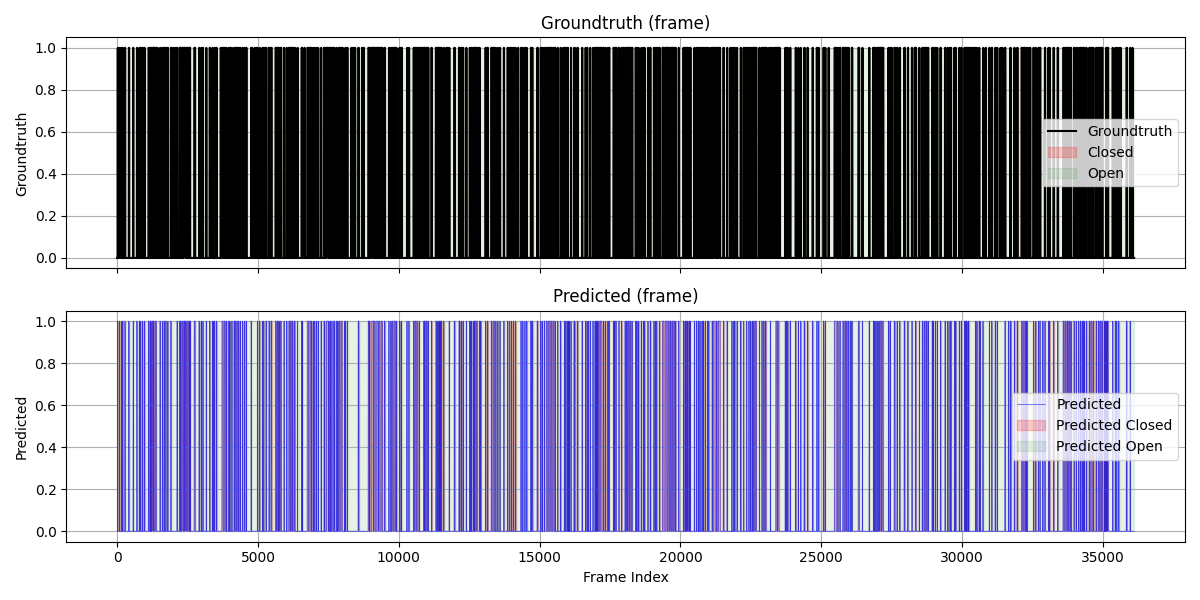
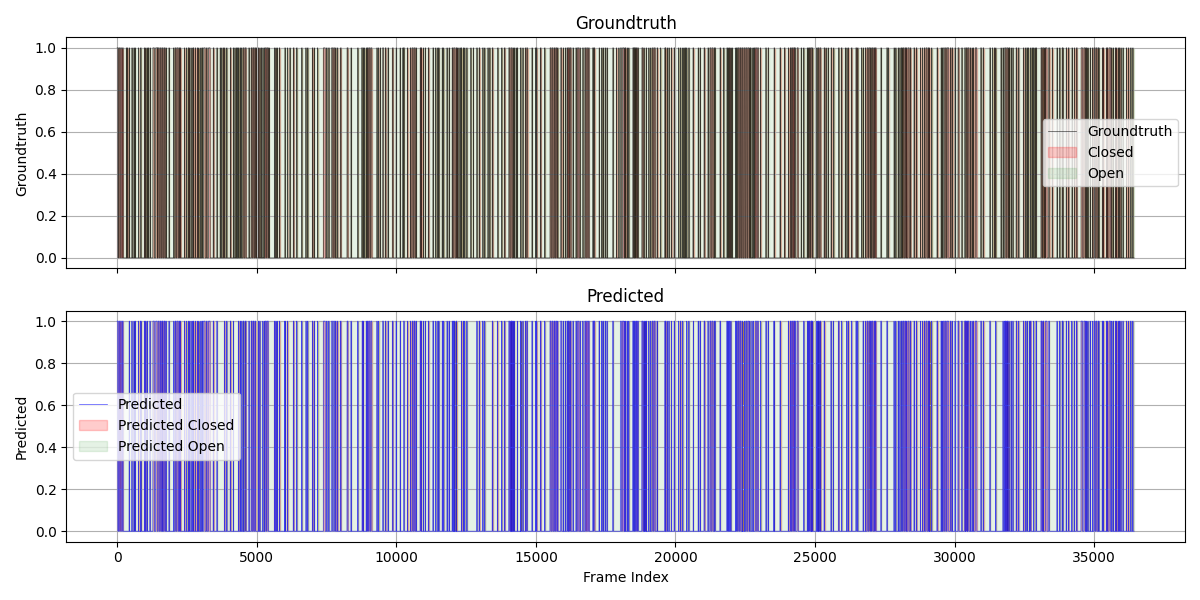
update test dataset

diff --git a/training/evaluate.py b/training/evaluate.py
@@ -157,15 +157,15 @@ def evaluate_model(checkpoint_path):
     model.eval()
 
     # 2. Validation dataset
-    val_dataset = ThermalBlinkDataset(
+    test_dataset = ThermalBlinkDataset(
         pkl_root=PKL_ROOT,
         csv_root=CSV_ROOT,
         subfolders=SUBFOLDERS,
-        split="val",  # Specify validation split
+        split="test",  # Specify test split
         center_size=CENTER_SIZE,
     )
-    val_loader = DataLoader(
-        val_dataset,
+    test_loader = DataLoader(
+        test_dataset,
         batch_size=1,              # Load one sequence at a time
         shuffle=False,
         num_workers=0             # Single-threaded evaluation
@@ -173,13 +173,11 @@ def evaluate_model(checkpoint_path):
 
     all_preds = []
     all_labels = []
-
-    for batch in val_loader:
+    for batch in test_loader:
         x = batch["x"].to(DEVICE)  # Ensure data is on the correct device
         y = batch["y"].to(DEVICE)
         with torch.no_grad():
             logits = model(x)  # [B, 1] or [B]
-            # probs = torch.sigmoid(logits).squeeze(-1).cpu().numpy()  # [B]
             probs = torch.sigmoid(logits).squeeze().cpu().numpy()
             if probs.ndim == 0:
                 probs = np.expand_dims(probs, axis=0)  # 转换成 shape=(1,)
@@ -189,12 +187,11 @@ def evaluate_model(checkpoint_path):
 
     all_preds = np.array(all_preds)
     all_labels = np.array(all_labels)
-
     all_preds_smoothed, bin_preds = postprocess_predictions(
-        all_preds, threshold=0.42, kernel_size=7, min_valid_len=1
+        all_preds, threshold=0.40, kernel_size=7, min_valid_len=1
     )
 
-    # Ground truth 标签二值化
+    # Ground truth binary labels
     bin_labels = (all_labels >= 0.45).astype(int)
 
 
@@ -273,7 +270,7 @@ def evaluate_model(checkpoint_path):
                      where=all_labels <= 0.5,
                      color='green', alpha=0.1, label='Open')
     ax1.set_ylabel("Groundtruth")
-    ax1.set_title("Groundtruth (window)" if WINDOW_MODE else "Groundtruth (frame)")
+    ax1.set_title("Groundtruth (window)" if WINDOW_MODE else "Groundtruth")
     ax1.legend()
     ax1.grid(True)
     
@@ -287,7 +284,7 @@ def evaluate_model(checkpoint_path):
                      color='green', alpha=0.1, label='Predicted Open')
     ax2.set_xlabel("Window Index" if WINDOW_MODE else "Frame Index")
     ax2.set_ylabel("Predicted")
-    ax2.set_title("Predicted (window)" if WINDOW_MODE else "Predicted (frame)")
+    ax2.set_title("Predicted (window)" if WINDOW_MODE else "Predicted")
     ax2.legend()
     ax2.grid(True)
     

diff --git a/training/main.py b/training/main.py
@@ -8,38 +8,46 @@ from evaluate import evaluate_model
 from model import BlinkClassifier
 from trainer import build_trainer, build_dataloaders
 from utils import set_random_seeds
-
+from pytorch_lightning.callbacks import EarlyStopping
 
 def main():
     set_random_seeds()
 
-    # ====================== [DEBUG] Dataset Validation ======================
     print("🛠 Loading training data...")
     dataset = ThermalBlinkDataset(
         pkl_root=PKL_ROOT,
         csv_root=CSV_ROOT,
         subfolders=SUBFOLDERS,
-        split="train",  # Specify training split
+        split="train",
         center_size=CENTER_SIZE,
     )
     print(f"✅ Dataset loaded successfully, total {len(dataset)} frames")
 
-    # ====================== [Training Section] ======================
     print("\n🚀 Initializing model: ", MODEL_NAME)
     model = BlinkClassifier()
+
+    # Build dataloaders
     train_loader, val_loader, train_dataset = build_dataloaders()
+
+    # Configure early stopping
+    early_stopping = EarlyStopping(
+        monitor="val_f1",
+        patience=5,
+        mode="max",
+        verbose=True
+    )
+
+    # Build trainer with reshuffle, early stopping, and learning rate monitor callbacks
+    # trainer = build_trainer(train_dataset, callbacks=[early_stopping])
     trainer = build_trainer(train_dataset)
     trainer.fit(model, train_loader, val_loader)
 
-    # ✅ Save model to checkpoint path
     os.makedirs(CHECKPOINT_PATH, exist_ok=True)
     model_save_path = os.path.join(CHECKPOINT_PATH, "res_t1.pth")
     torch.save(model.model.state_dict(), model_save_path)
     print(f"\n✅ Model saved to {model_save_path}")
 
-    # ====================== [Evaluation Section] ======================
     print("\n📊 Starting model evaluation...")
-
     ckpt_path = os.path.join(CHECKPOINT_PATH, "res_t1.pth")
     evaluate_model(ckpt_path)
 

diff --git a/training/trainer.py b/training/trainer.py
@@ -3,6 +3,9 @@ from torch.utils.data import DataLoader
 from constants import *
 from dataset import ThermalBlinkDataset
 from pytorch_lightning.callbacks import Callback
+from pytorch_lightning.callbacks import EarlyStopping
+from pytorch_lightning.callbacks import LearningRateMonitor
+
 
 class ReshuffleCallback(Callback):
     def __init__(self, train_dataset):
@@ -45,16 +48,36 @@ def build_dataloaders():
 
     return train_loader, val_loader, train
 
-def build_trainer(train):
+
+
+def build_trainer(train, callbacks=None):
+    """
+    Build PyTorch Lightning Trainer
+    Args:
+        train: Training dataset
+        callbacks: List of callbacks (e.g., EarlyStopping, ReshuffleCallback)
+    Returns:
+        Trainer object
+    """
     reshuffle_callback = ReshuffleCallback(train)
+
+    # if other callbacks are provided, append reshuffle callback
+    if callbacks is None:
+        callbacks = []
+    callbacks.append(reshuffle_callback)
+
+    # Add LearningRateMonitor callback
+    lr_monitor = LearningRateMonitor(logging_interval="epoch")
+    callbacks.append(lr_monitor)
+
     return pl.Trainer(
         max_epochs=EPOCHS,
-        accelerator="cuda",  
+        accelerator="cuda",
         devices=1,
         default_root_dir=LOG_DIR,
         log_every_n_steps=10,
         enable_checkpointing=True,
-        precision="16-mixed",      # mixed precision training
+        precision="16-mixed",  # mixed precision training
         enable_progress_bar=True,
-        callbacks=[reshuffle_callback],  
+        callbacks=callbacks,  
     )

diff --git a/training/model.py b/training/model.py
@@ -100,13 +100,18 @@ class BlinkClassifier(pl.LightningModule):
 
     def configure_optimizers(self):
         optimizer = torch.optim.Adam(self.parameters(), lr=self.hparams.lr)
-        # 以StepLR为例，每5个epoch将lr乘以0.5
-        scheduler = torch.optim.lr_scheduler.StepLR(optimizer, step_size=5, gamma=0.5)
+        # 使用 ReduceLROnPlateau 调度器，根据验证集的指标动态调整学习率
+        scheduler = torch.optim.lr_scheduler.ReduceLROnPlateau(
+            optimizer,
+            mode="min",  # 目标是最小化验证集损失
+            factor=0.5,  # 学习率缩减因子
+            patience=3,  # 如果验证集损失连续 3 次未改善，则调整学习率
+            verbose=True,
+        )
         return {
             "optimizer": optimizer,
             "lr_scheduler": {
                 "scheduler": scheduler,
-                "interval": "epoch",  # 每个epoch调整一次
-                "monitor": "val_loss",  # 可选，某些scheduler需要
-            }
+                "monitor": "val_loss",  # 监控验证集损失
+            },
         }

diff --git a/training/constants.py b/training/constants.py
@@ -33,5 +33,5 @@ WINDOW_MODE = False          # Whether to use window mode
 # === Dataset and training constants ===
 SEGMENT_LEN = 160  # length of each segment in frames
 TRAIN_RATIO = 0.7  # ratio of training set
-VAL_RATIO = 0.2    # ratio of validation set
-TEST_RATIO = 0.1   # ratio of test set
+VAL_RATIO = 0.1    # ratio of validation set
+TEST_RATIO = 0.2   # ratio of test set
